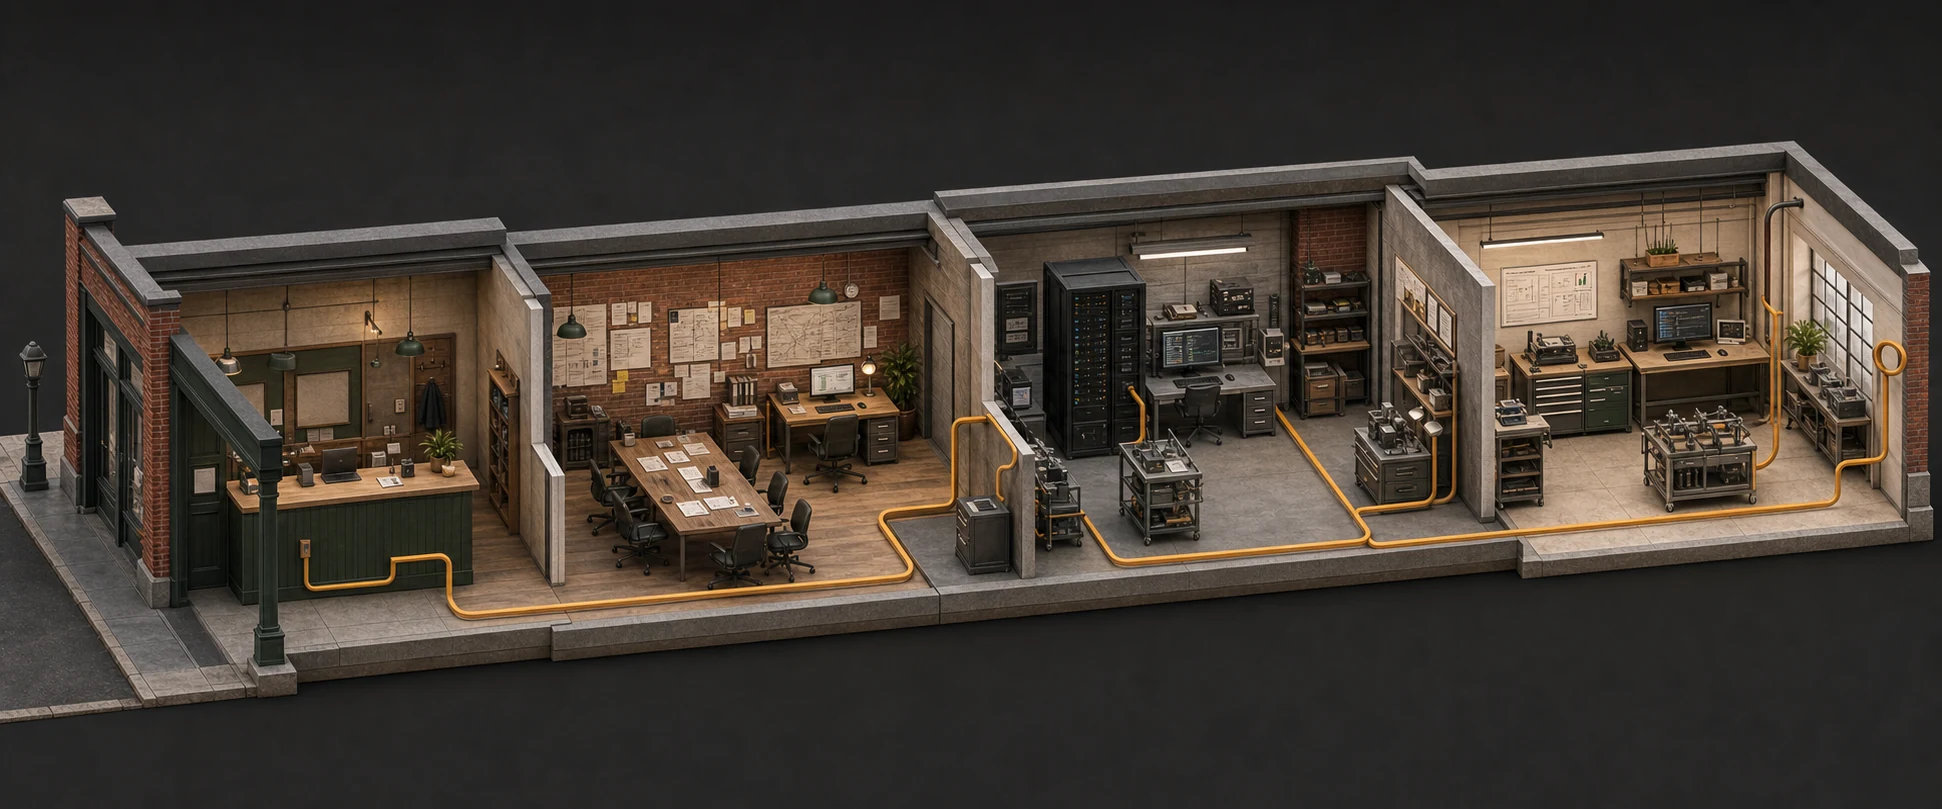
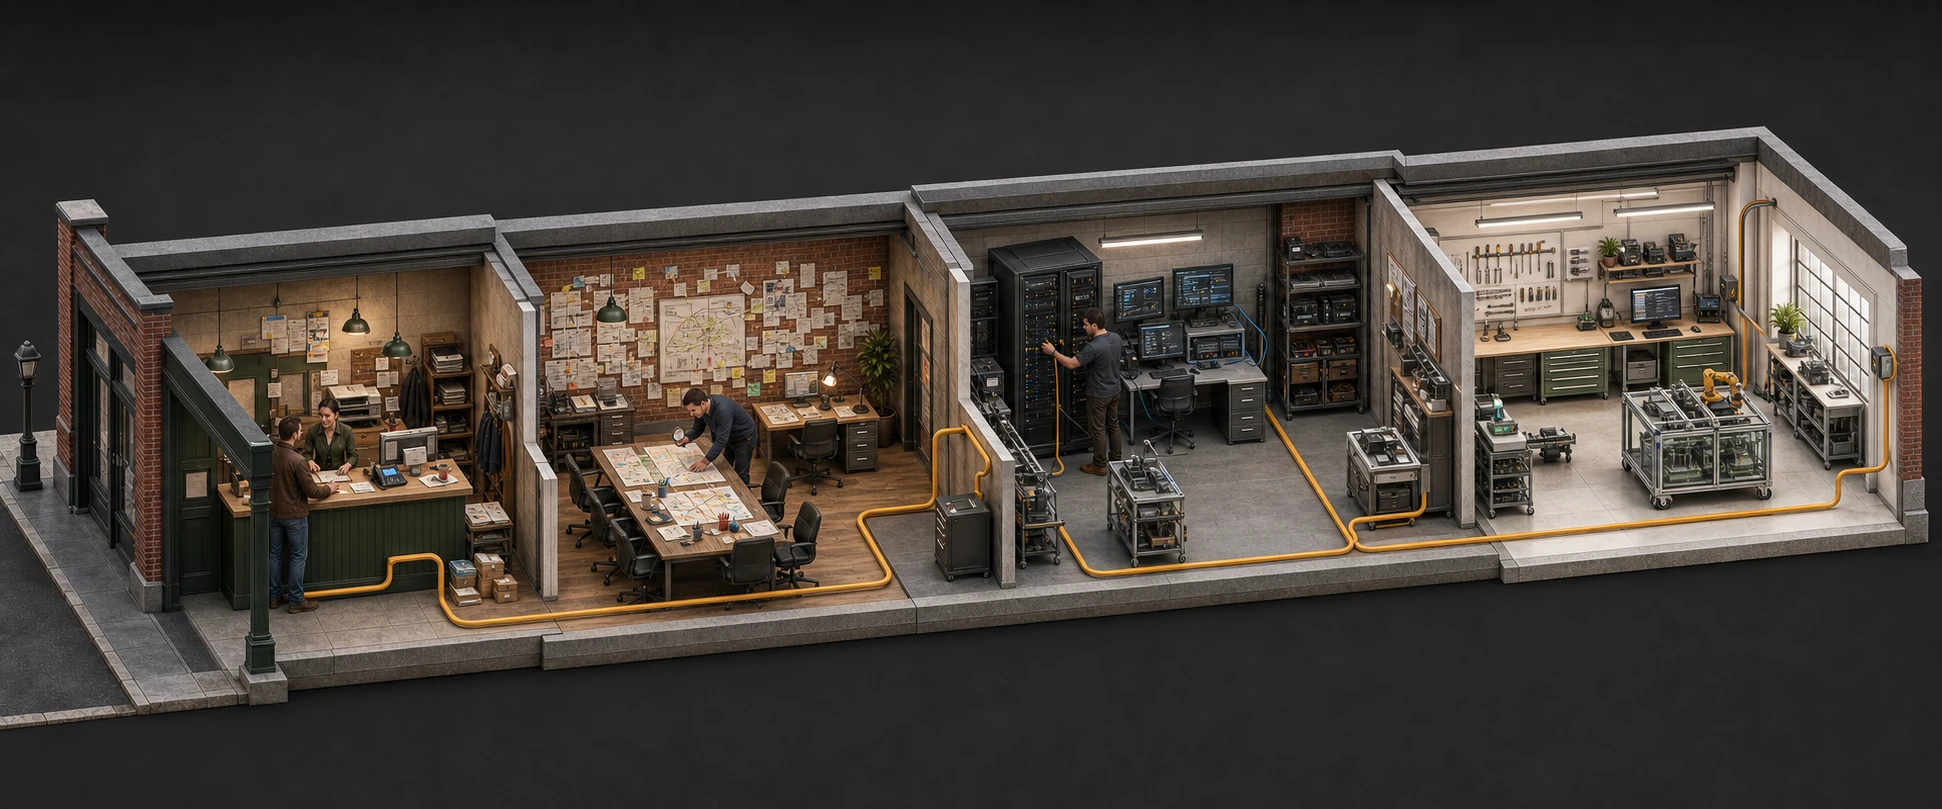
Refine operations journey and proof

diff --git a/src/styles.css b/src/styles.css
@@ -346,6 +346,29 @@ a {
   border-top: 1px solid var(--line);
 }
 
+.work-intro {
+  grid-column: 2;
+  display: grid;
+  grid-template-columns: minmax(16rem, 1fr) minmax(13rem, 0.65fr);
+  gap: clamp(2rem, 6vw, 6rem);
+  margin-top: 1.5rem;
+  padding-top: 1.4rem;
+  border-top: 1px solid var(--line);
+}
+
+.work-intro p {
+  max-width: 46rem;
+  font-size: clamp(1.2rem, 2vw, 2rem);
+  font-weight: 750;
+  line-height: 1.2;
+}
+
+.work-intro span {
+  max-width: 30ch;
+  color: rgba(23, 25, 22, 0.62);
+  line-height: 1.55;
+}
+
 .service-row {
   position: relative;
   z-index: 0;
@@ -398,8 +421,9 @@ a {
 }
 
 .service-row h3 {
-  font-size: clamp(1.5rem, 2.2vw, 2.3rem);
+  font-size: clamp(1.25rem, 1.8vw, 1.95rem);
   font-weight: 800;
+  line-height: 1.05;
   text-transform: uppercase;
 }
 
@@ -1427,10 +1451,112 @@ a {
   border-radius: 0.65rem;
 }
 
+.ethos-section::after {
+  display: none;
+}
+
+.proof-stats {
+  display: grid;
+  grid-template-columns: repeat(3, minmax(0, 1fr));
+  margin-top: 2.2rem;
+  border-top: 1px solid var(--line);
+  border-bottom: 1px solid var(--line);
+}
+
+.proof-stats article {
+  min-height: 8.25rem;
+  display: flex;
+  flex-direction: column;
+  justify-content: space-between;
+  gap: 1rem;
+  padding: 1.15rem;
+  border-right: 1px solid var(--line);
+}
+
+.proof-stats article:first-child { padding-left: 0; }
+.proof-stats article:last-child { border-right: 0; }
+
+.proof-stats strong {
+  color: var(--brick);
+  font-family: Impact, "Arial Narrow", var(--display);
+  font-size: 3.6rem;
+  font-weight: 400;
+  line-height: 0.8;
+}
+
+.proof-stats svg {
+  width: 2.1rem;
+  height: 2.1rem;
+  color: var(--brick);
+  stroke-width: 1.5;
+}
+
+.proof-stats span {
+  font-family: var(--mono);
+  font-size: 0.58rem;
+  font-weight: 700;
+  line-height: 1.35;
+  text-transform: uppercase;
+}
+
+.kpi-band {
+  margin-top: 1.5rem;
+  padding: 1rem 1.1rem;
+  border-radius: 0.9rem;
+  background: var(--green);
+  color: var(--paper);
+}
+
+.kpi-band > div {
+  display: flex;
+  align-items: center;
+  gap: 0.65rem;
+  color: var(--ochre);
+  font-family: var(--mono);
+  font-size: 0.58rem;
+  font-weight: 700;
+  letter-spacing: 0.08em;
+  text-transform: uppercase;
+}
+
+.kpi-band svg { width: 1rem; }
+
+.kpi-band ul {
+  display: grid;
+  grid-template-columns: repeat(2, minmax(0, 1fr));
+  gap: 0.55rem 1rem;
+  margin-top: 0.9rem;
+  list-style: none;
+  font-size: 0.76rem;
+  font-weight: 700;
+  text-transform: uppercase;
+}
+
+.kpi-band li {
+  padding-top: 0.5rem;
+  border-top: 1px solid rgba(242, 238, 228, 0.24);
+}
+
 @media (max-width: 900px) {
+  .work-intro { grid-column: 1; }
   .story-section { gap: 0; }
   .story-art { height: 30rem; min-height: 0; border: 0; border-radius: 1.25rem; }
   .story-copy { padding-right: 0; padding-left: 0; }
+}
+
+@media (max-width: 700px) {
+  .work-intro { grid-column: 1; grid-template-columns: 1fr; gap: 1rem; }
+  .service-list { grid-column: 1; }
+  .story-art { height: 23rem; }
+  .proof-stats { grid-template-columns: 1fr; }
+  .proof-stats article,
+  .proof-stats article:first-child {
+    min-height: 6.6rem;
+    padding: 1rem 0;
+    border-right: 0;
+    border-bottom: 1px solid var(--line);
+  }
+  .proof-stats article:last-child { border-bottom: 0; }
 }
 
 @media (prefers-reduced-motion: reduce) {

diff --git a/src/App.tsx b/src/App.tsx
@@ -3,8 +3,12 @@ import {
   ArrowRight,
   Cable,
   Compass,
+  EyeOff,
+  Factory,
   Menu,
   SearchCheck,
+  Shuffle,
+  TrendingUp,
   Workflow,
   X,
 } from "lucide-react";
@@ -12,27 +16,33 @@ import {
 const services = [
   {
     number: "01",
-    name: "Assess",
-    line: "See the operation clearly.",
-    icon: SearchCheck,
-  },
-  {
-    number: "02",
-    name: "Guide",
-    line: "Turn questions into decisions.",
-    icon: Compass,
-  },
-  {
-    number: "03",
-    name: "Integrate",
-    line: "Make the tools work together.",
+    name: "Disconnected systems",
+    line: "Tools and teams working from different versions of the truth.",
     icon: Cable,
   },
   {
-    number: "04",
-    name: "Automate",
-    line: "Remove repetitive work.",
+    number: "02",
+    name: "Manual work",
+    line: "Repeatable tasks consuming the attention your customers need.",
     icon: Workflow,
+  },
+  {
+    number: "03",
+    name: "Unclear ownership",
+    line: "Important work falling into the gaps between roles and teams.",
+    icon: Compass,
+  },
+  {
+    number: "04",
+    name: "Inconsistent processes",
+    line: "Every person solving the same problem a different way.",
+    icon: Shuffle,
+  },
+  {
+    number: "05",
+    name: "Lack of visibility",
+    line: "Decisions arriving after the signal has already gone cold.",
+    icon: EyeOff,
   },
 ];
 
@@ -46,26 +56,26 @@ const rooms = [
   {
     number: "01",
     name: "Listen",
-    title: "Start where the work enters.",
-    body: "Customer requests, team questions, and daily exceptions are the first signals. We learn how demand actually reaches the business.",
+    title: "Make the mess visible.",
+    body: "We help growing service businesses and founder-led manufacturers eliminate operational friction before they scale.",
   },
   {
     number: "02",
     name: "Assess",
-    title: "Make the operation visible.",
-    body: "We map handoffs, decisions, costs, and constraints—then separate the real bottleneck from the background noise.",
+    title: "Trace how work really moves.",
+    body: "Maps, handoffs, decisions, costs, and constraints reveal where the business is fighting itself.",
   },
   {
     number: "03",
     name: "Integrate",
     title: "Connect the working system.",
-    body: "The right tools, data, and responsibilities begin sharing one clear path instead of creating parallel versions of the truth.",
+    body: "We connect the tools, data, and ownership model so information can move without being re-keyed, chased, or reconciled by hand.",
   },
   {
     number: "04",
     name: "Automate",
-    title: "Give the team room to move.",
-    body: "Repeatable work becomes dependable infrastructure. People keep the judgment; the system carries the repetition.",
+    title: "Make scale feel calm.",
+    body: "Automation carries repeatable work in a production-ready system. Your people keep the judgment; the operation gains capacity.",
   },
 ];
 
@@ -176,6 +186,10 @@ export default function App() {
           <span>What we do</span>
         </div>
         <h2 id="work-title">Where we help.</h2>
+        <div className="work-intro">
+          <p>For growing service businesses and founder-led manufacturers where demand has outgrown the operating system behind it.</p>
+          <span>We remove the friction that makes growth harder than it should be.</span>
+        </div>
 
         <div className="service-list">
           {services.map(({ number, name, line, icon: Icon }) => (
@@ -210,8 +224,8 @@ export default function App() {
       <section className="story-section" id="story" aria-labelledby="story-title">
         <div className="story-art">
           <img
-            src="/fan-works-hero.webp"
-            alt="Operators reviewing financial, process, technology, and customer evidence around a working table"
+            src="/fanworks-operator-proof.webp"
+            alt="Experienced operators reviewing performance and walking a connected service and manufacturing operation"
             decoding="async"
           />
         </div>
@@ -220,9 +234,22 @@ export default function App() {
             <span>03</span>
             <span>Why FanWorks</span>
           </div>
-          <h2 id="story-title">From Richmond. Built for operators.</h2>
-          <p>FanWorks brings business, process, and technology experience to the same table.</p>
-          <blockquote>Clear work. Useful systems.</blockquote>
+          <h2 id="story-title">We have run the work.</h2>
+          <p>FanWorks is operator-led. We have built teams, improved production, owned the numbers, and lived with the systems after the consultants left.</p>
+          <div className="proof-stats">
+            <article><strong>20+</strong><span>Years improving operations</span></article>
+            <article><Factory aria-hidden="true" /><span>Manufacturing expertise</span></article>
+            <article><SearchCheck aria-hidden="true" /><span>Built and run businesses—not just advised them</span></article>
+          </div>
+          <div className="kpi-band">
+            <div><TrendingUp aria-hidden="true" /><span>KPIs we improve</span></div>
+            <ul>
+              <li>Cycle time</li>
+              <li>Throughput</li>
+              <li>Gross margin</li>
+              <li>On-time delivery</li>
+            </ul>
+          </div>
         </div>
       </section>
 

diff --git a/design-qa.md b/design-qa.md
@@ -1,9 +1,14 @@
-# FanWorks Cutaway Scroll Design QA
+# FanWorks Operations Journey Design QA
 
 ## Evidence
 
-- Source visual truth: `/Users/scottjones/.codex/generated_images/019f8556-3eba-72b1-be09-1349b132ac29/exec-a9d1787f-f191-4baa-b050-323a84a88e95.png`
-- Generated panoramic source asset: `/Users/scottjones/Documents/GitHub/fanworks.io/public/fanworks-cutaway-panorama.webp`
+- People-filled panoramic source: `/Users/scottjones/.codex/generated_images/019f8556-3eba-72b1-be09-1349b132ac29/exec-0a8834ec-e77a-47ba-82e7-17cc31694580.png`
+- Production panoramic asset: `/Users/scottjones/Documents/GitHub/fanworks.io/public/fanworks-cutaway-panorama.webp`
+- Operator-proof illustration: `/Users/scottjones/Documents/GitHub/fanworks.io/public/fanworks-operator-proof.webp`
+- Final people-filled hero: `/tmp/fanworks-people-hero-desktop.png`
+- Final target-market and friction section: `/tmp/fanworks-friction-market-desktop.png`
+- Final How We Work section without diagonal: `/tmp/fanworks-how-we-work-no-slash.png`
+- Final operator proof, stats, and KPI band: `/tmp/fanworks-operator-proof-kpis.png`
 - Desktop implementation, first room: `/tmp/fanworks-cutaway-desktop-room2-final.png`
 - Desktop implementation, automation room: `/tmp/fanworks-cutaway-desktop-room4.png`
 - Mobile implementation, first room: `/tmp/fanworks-cutaway-mobile-room1.png`
@@ -22,11 +27,13 @@
 - Fonts and typography: room headlines now use a condensed display face and optical weight that matches the selected concept; body and utility copy retain the existing FanWorks sans/monospace system. All tested headings wrap without clipping.
 - Spacing and layout rhythm: the building remains the dominant spatial canvas, the narrative block holds a consistent lower-left position, and header/progress elements stay aligned across camera states.
 - Colors and visual tokens: charcoal, warm brick, porch green, paper, and ochre match the selected direction and the existing FanWorks palette. Text contrast remains readable over the photographic cutaway.
-- Image quality and asset fidelity: the production asset is a dedicated 1944 × 1024 WebP panorama, not a stretched mockup. Four coherent rooms and one continuous physical ochre conduit remain sharp through the desktop and mobile crops.
+- Image quality and asset fidelity: the production hero is a dedicated 1942 × 809 WebP panorama, not a stretched mockup. It contains the requested customer-and-staff intake scene, magnifying-glass assessment, server-rack integration, and clean production-ready automation room. The separate operator illustration is also a high-resolution WebP and uses the same miniature architectural realism.
 - Copy and content: each room explains a distinct business-system stage—Listen, Assess, Integrate, and Automate—without generic growth metaphors.
 - Interaction and accessibility: vertical scroll continuously controls horizontal camera translation, vertical drift, and scale. The active room updates the visible narrative and progress state. Reduced-motion users receive a static final-room composition. Semantic headings, aria-hidden state, mobile navigation, and contact behavior remain intact.
-- Hero and story continuity: the cutaway is now the initial viewport rather than following a detached black intro. The lower story artwork uses real operations-table photography in a rounded editorial frame, matching the evidence-led visual language.
-- Browser console: no warnings or errors in desktop or mobile validation.
+- Hero and story continuity: the people-filled cutaway remains the initial viewport. The lower story artwork now uses a matching generated operator-floor illustration in a rounded editorial frame, carrying the ochre pipeline and industrial palette into the proof section.
+- Market clarity: the first room explicitly names growing service businesses and founder-led manufacturers. “Where we help” now names five operating frictions instead of repeating the four-step hero journey.
+- Operator proof: the page now leads with the supported “20+ years” fact, manufacturing expertise, an operator-led claim, and a KPI band for cycle time, throughput, gross margin, and on-time delivery. No invented client-result percentages were introduced.
+- Responsive review: the current desktop states were captured at 1280 × 720. The existing 390 × 844 baseline and the current breakpoint rules were rechecked; the tablet work-intro grid and mobile story-image height were corrected during this pass.
 
 ## Comparison History
 
@@ -45,6 +52,14 @@
 - User-directed refinement: promoted the cutaway to the first hero, moved navigation into the sticky camera scene, replaced the mismatched illustrated lower graphic with the operator worktable photograph, and introduced restrained rounded corners on labels, controls, and the story image.
 - Post-fix evidence: `/tmp/fanworks-cutaway-first-hero-desktop.png`, `/tmp/fanworks-cutaway-first-hero-mobile.png`, and `/tmp/fanworks-story-rounded-worktable.png` show the unified art direction and unobstructed responsive layout.
 - Result: no actionable P0, P1, or P2 findings in desktop hero, mobile hero/menu, or story-section review.
+
+### Iteration 4
+
+- User-directed refinement: populated every hero room with the requested people and operating detail; separated target-market friction from the process story; removed the red diagonal; replaced the coffee-table stock image with a matching operator-floor illustration; and added operator proof plus KPI language.
+- P2 finding: the new work-intro block retained desktop grid column 2 between 701 and 900 pixels, which could create an unintended implicit tablet column. The later mobile image override also left the story artwork taller than intended at phone widths.
+- Fix: pinned the work-intro block to the single tablet column and restored the 23rem phone artwork height in the final cascade.
+- Post-fix evidence: `/tmp/fanworks-people-hero-desktop.png`, `/tmp/fanworks-friction-market-desktop.png`, `/tmp/fanworks-how-we-work-no-slash.png`, and `/tmp/fanworks-operator-proof-kpis.png`.
+- Result: no actionable P0, P1, or P2 findings remain in the updated desktop narrative, proof section, or reviewed responsive rules.
 
 ## Primary Interactions Tested
 